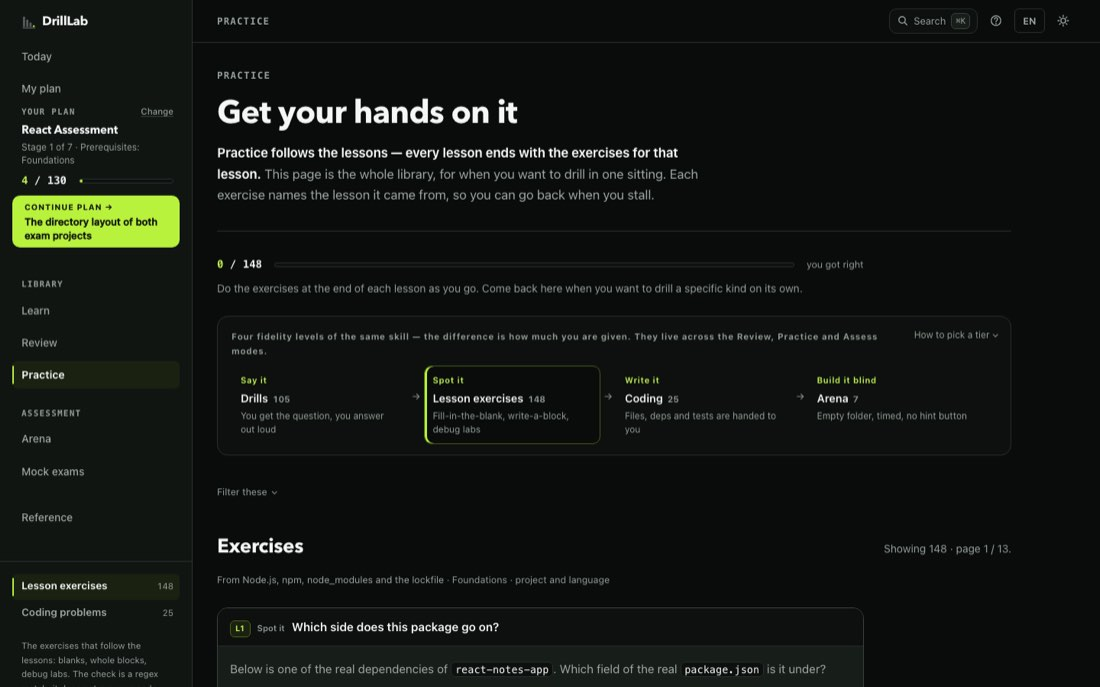
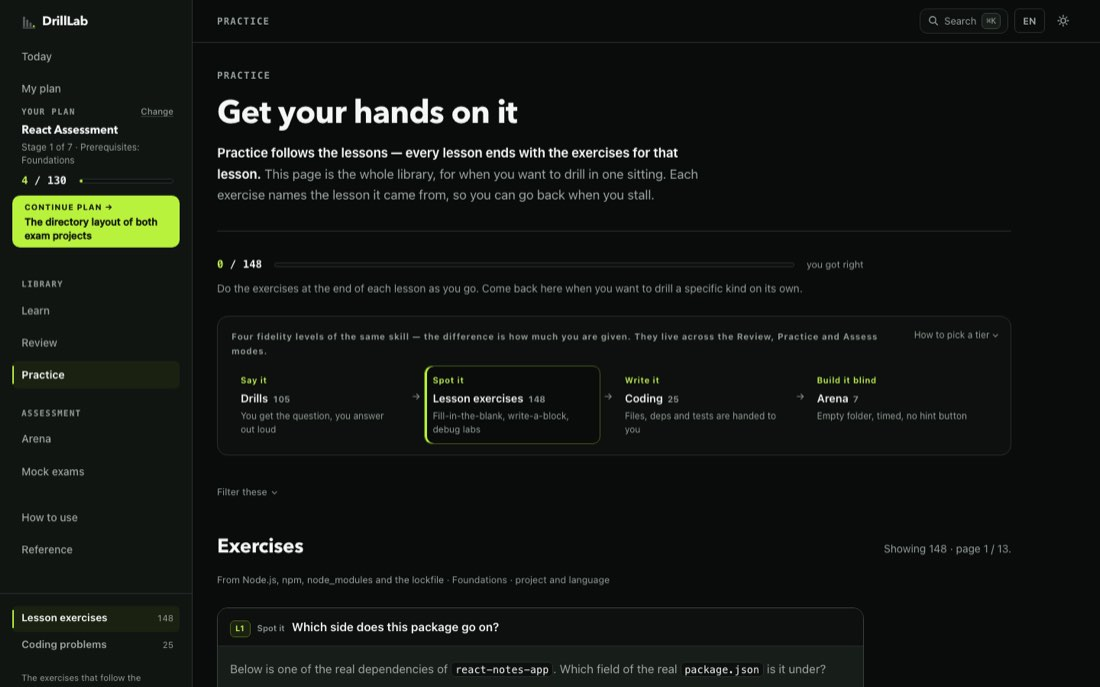
docs: correct the top bar description and refresh the after screens
Two things I left inaccurate in the last commit.

The README, docs/ui-v2.md and CLAUDE.md still described the top bar as
carrying four tools including help. Help was removed from the top bar and
"How to use" moved into the sidebar next to Reference, so the top bar
carries three: search, language and theme.

The archived "after" screenshots were captured eight minutes before that
change, so they showed the old top bar — including the mobile one, which
was the whole point of the fix. Recaptured from the current build.

diff --git a/docs/ui-v2.md b/docs/ui-v2.md
@@ -19,7 +19,7 @@
 
 ```
 ┌────────────────────────┬──────────────────────────────────────────┐
-│ DrillLab               │ 面包屑（我在哪）        搜索 语言 主题 帮助 │
+│ DrillLab               │ 面包屑（我在哪）           搜索 语言 主题 │
 ├────────────────────────┼──────────────────────────────────────────┤
 │ ● 今天                 │                                          │
 │ ● 我的计划             │              内容                        │
@@ -35,14 +35,14 @@
 │   考场                 │                                          │
 │   模拟考               │                                          │
 │                        │                                          │
-│ 速查                   │                                          │
+│ 使用说明 / 速查        │                                          │
 │ ─────────────          │                                          │
 │ 〔当前页的上下文〕      │                                          │
 └────────────────────────┴──────────────────────────────────────────┘
 ```
 
 **顶栏不再有第二套导航。** 顶栏只剩「我在哪」（面包屑）和四个工具
-（搜索 / 语言 / 主题 / 帮助）。原来顶栏那四个模式标签整块搬进侧栏的
+（搜索 / 语言 / 主题）。原来顶栏那四个模式标签整块搬进侧栏的
 「资料库 / 检验」两组 —— 位置固定，每一页都在同一个 y 坐标上，
 `aria-current="page"` 标当前项。
 

diff --git a/CLAUDE.md b/CLAUDE.md
@@ -368,11 +368,11 @@ styles/layout.css   布局原语（全部带 ui- 前缀）
 
 ```
 侧栏  去哪儿（导航）              → lib/side-nav.ts，位置在每一页上都一样
-顶栏  我在哪（区段名）+ 四个工具   → 搜索 / 语言 / 主题 / 帮助
+顶栏  我在哪（区段名）+ 三个工具   → 搜索 / 语言 / 主题
 ```
 
 侧栏从上到下：品牌 → 今天 / 我的计划 → **计划状态 + 那颗唯一的〔继续〕** →
-资料库（学课程 / 背知识点 / 做练习）→ 检验（考场 / 模拟考）→ 速查 →
+资料库（学课程 / 背知识点 / 做练习）→ 检验（考场 / 模拟考）→ 使用说明 / 速查 →
 分隔线 → 当前这一类事情自己的结构（`components/sidebars.tsx`）。
 
 「继续」在计划状态**下面**、资料库**上面** —— 它是这个产品的主动作，

diff --git a/README.md b/README.md
@@ -51,8 +51,8 @@ still ticked in the courses.
 ## One navigation, one next action
 
 Everything you can go to lives in the left sidebar, and its positions are identical on
-every page. The top bar carries only where you are plus four tools: search, language,
-theme and help.
+every page. The top bar carries only where you are plus three tools: search, language
+and theme.
 
 ```
 Today  ·  My plan
@@ -60,7 +60,7 @@ Today  ·  My plan
    〔 Continue 〕                      ← the one primary action, site-wide
 Library     Learn · Review · Practice
 Assessment  Arena · Mock exams
-Reference
+How to use  ·  Reference
 ```
 
 | Section | Routes | What you do there |
